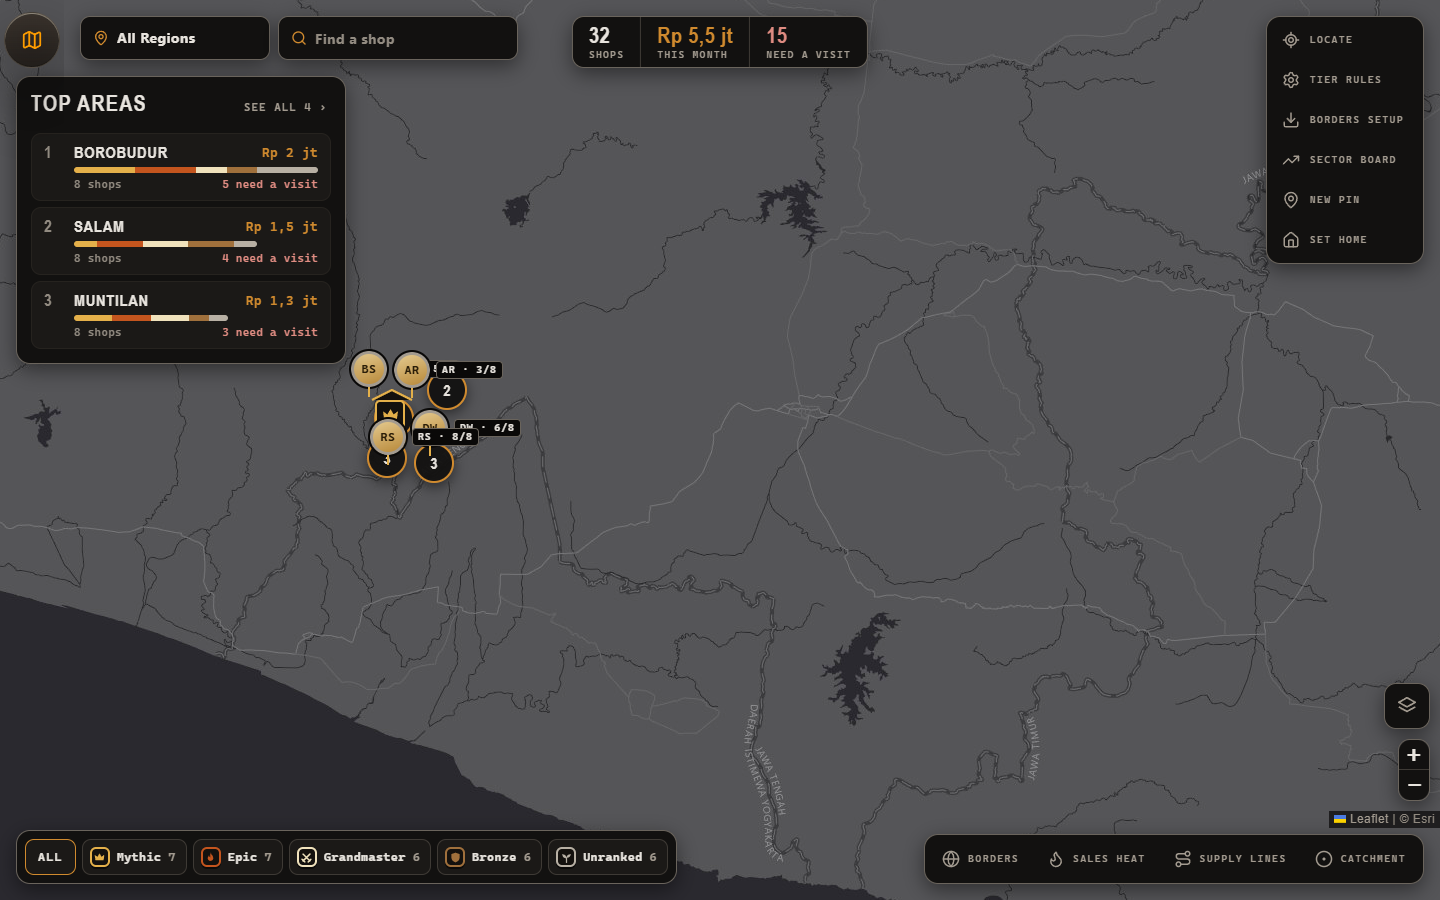
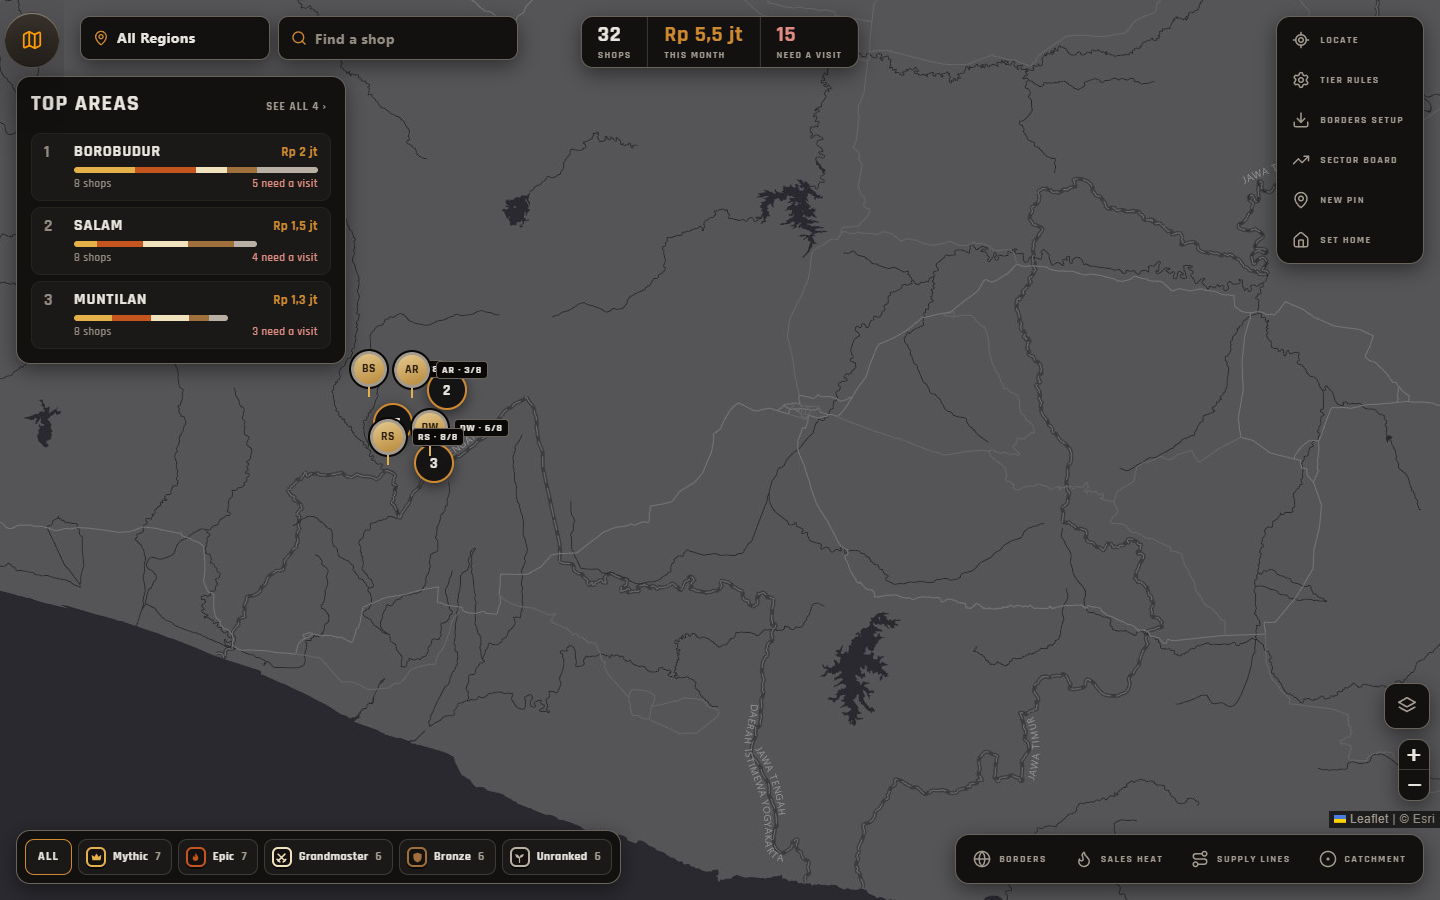
Map System round 3: font C + hub hidden built (kpm 7f88984); group symbol drawn, pick owed

diff --git a/Raw/2026-10-05-map-system/round2/map-system-round2.html b/Raw/2026-10-05-map-system/round2/map-system-round2.html
@@ -1,4 +1,5 @@
 <title>Map System Round 2</title>
+<link rel="stylesheet" href="https://fonts.googleapis.com/css2?family=Rajdhani:wght@500;600;700&display=swap">
 <link rel="preconnect" href="https://fonts.googleapis.com">
 <link rel="stylesheet" href="https://fonts.googleapis.com/css2?family=Barlow+Condensed:wght@600;700;800;900&display=swap">
 <style>
@@ -34,6 +35,7 @@ figcaption { font-size: 14px; color: var(--muted); }
 figcaption b:first-child { font-family: var(--display); font-size: 20px; letter-spacing: .04em; text-transform: uppercase; margin-right: 6px; }
 .tag { display: inline-block; font: 700 11px/1 var(--mono); letter-spacing: .1em; color: var(--gold2); border: 1px solid var(--gold); padding: 4px 6px 3px; border-radius: 4px; vertical-align: 3px; }
 img.frame { width: 100%; display: block; border-radius: 8px; border: 1px solid var(--line2); }
+#groups { grid-template-columns: repeat(auto-fit, minmax(min(100%, 240px), 1fr)); }
 #unranked { grid-template-columns: repeat(auto-fit, minmax(min(100%, 240px), 1fr)); }
 .bigfonts { display: grid; gap: 16px; }
 .bigrow { display: grid; grid-template-columns: 1.25fr 1fr; gap: 10px; align-items: start; }
@@ -61,6 +63,25 @@ img.frame { width: 100%; display: block; border-radius: 8px; border: 1px solid v
   background: #14110e; border: 1.5px solid var(--gold2); border-radius: 3px; padding: 2px 4px 1px 5px; white-space: nowrap; }
 .zoom3 { transform: scale(3); transform-origin: center; }
 
+/* ---- round 3: the group symbol ---- */
+.grp { position: relative; display: grid; justify-items: center; font-family: "Rajdhani", sans-serif; }
+.grp .n { margin-top: 3px; font: 700 13px/1 "Rajdhani", sans-serif; color: var(--cream); background: #14110e; border: 1.5px solid var(--line3); border-radius: 4px; padding: 2px 5px 1px; letter-spacing: .04em; white-space: nowrap; }
+/* A: a fanned stack of the best levels inside */
+.stack { position: relative; width: 40px; height: 30px; }
+.stack .mk { position: absolute; top: 3px; left: 8px; }
+.stack .mk.b1 { rotate: -14deg; translate: -8px 2px; opacity: .9; }
+.stack .mk.b2 { rotate: 14deg; translate: 8px 2px; opacity: .9; }
+.stack .mk.b0 { z-index: 2; }
+/* B: a little market town */
+.town { width: 42px; height: 30px; overflow: visible; }
+.town path { fill: #14110e; stroke: var(--c, #F0E2BC); stroke-width: 2; stroke-linejoin: round; }
+.town rect { fill: var(--c, #F0E2BC); }
+/* C: a supply crate, its edge = the best level inside */
+.crate { position: relative; width: 34px; height: 30px; display: grid; place-items: center; background: #1f1a14; border: 2px solid var(--c); border-radius: 4px; box-shadow: 0 2px 0 rgba(0,0,0,.55); overflow: hidden; }
+.crate::before, .crate::after { content: ""; position: absolute; left: 0; right: 0; height: 2px; background: color-mix(in srgb, var(--c) 45%, transparent); }
+.crate::before { top: 8px; } .crate::after { bottom: 8px; }
+.crate b { position: relative; z-index: 1; font: 700 15px/1 "Rajdhani", sans-serif; color: var(--cream); text-shadow: 0 1px 0 #000; }
+.today { width: 40px; height: 40px; border-radius: 50%; display: grid; place-items: center; background: rgba(18,17,16,.95); border: 2px solid #D08A2E; color: #E8E4DE; font: 800 15px/1 "Barlow Condensed", "Arial Narrow", sans-serif; box-shadow: 0 4px 14px rgba(0,0,0,.55); }
 /* ---- a map patch with pins ---- */
 /* real size: the patch is cropped to the column, never scaled, so a pin here is the pixel size it is on the map */
 .stage { position: relative; width: 100%; height: 280px; overflow: hidden; border-radius: 8px; border: 1px solid var(--line2); background: #4F4F51; }
@@ -119,9 +140,16 @@ ul.done { margin: 0; padding-left: 20px; display: grid; gap: 6px; color: var(--m
   <header style="display:grid;gap:12px">
     <span class="note">KPM · MAP SYSTEM · ROUND 2 · 2026-10-05</span>
     <h1>Map System Round 2</h1>
-    <p class="ask">🔴 One pick left: the font, now zoomed 3x below. Your hub pick (C) and Unranked pick (the sprout) are being built.</p>
+    <p class="ask">🔴 One pick: the new group symbol (section 0, right below). The font (C), the hub (C) and Unranked (the sprout) are built.</p>
     <p>Your words: <b>"the fonts is really bad i want u to change it, make sure all the animation is on theme with ours, and make sure that symbol for wholesale hub is more visible than other stores and i think i need new logo for unranked tier"</b>. The shop names and numbers are the test data, not your shops.</p>
   </header>
+
+  <section>
+    <h2>0 · The group symbol <small>new, your pick owed</small></h2>
+    <p>Your words: <b>"now i want u to change the circle and number to better symbol for the stores"</b>. When you zoom out, nearby shops join into one group. Today a group is a dark circle with a number. Each option below is a thing from the map's world, keeps the number (how many shops are inside), and is shown on a real map patch at its <b>real size</b> - groups of 3, 9, 29 and 152 shops - then one group 3x, then in grey.</p>
+    <div class="opts" id="groups"></div>
+    <p class="note">Done since the last version: your font C is now the app's font on every screen; the hub hides inside the groups when zoomed out; the hub is C and Unranked is the sprout (all built, local, not pushed).</p>
+  </section>
 
   <section>
     <h2>1 · The font <small>real frames of the app</small></h2>
@@ -169,7 +197,8 @@ ul.done { margin: 0; padding-left: 20px; display: grid; gap: 6px; color: var(--m
   <section class="decide">
     <h2>Your call</h2>
     <ol>
-      <li><b>🔴 Font: A, B or C?</b> I pick <b>B</b>: it is the font your approved drawings already use, so every screen starts looking like its drawing. It changes the big numbers and titles on every screen, not only the map. Example answer: "B".</li>
+      <li><b>🔴 Group symbol: A, B or C?</b> I pick <b>A, the badge stack</b>: on an analysis map the group should say what is inside, not only how many - the best levels show before you zoom in. Example answer: "A", or "C but show the level too".</li>
+      <li><b>✅ Font:</b> your C is built. <s>A, B or C?</s> I pick <b>B</b>: it is the font your approved drawings already use, so every screen starts looking like its drawing. It changes the big numbers and titles on every screen, not only the map. Example answer: "B".</li>
       <li><b>🔴 Wholesale hub: A, B or C?</b> I pick <b>C</b>: the warehouse roof is a thing you can name from a game, and the word HUB says it in plain text. You picked "the object and the word" for the visit signs too. Example: "C".</li>
       <li><b>🔴 Unranked: A, B or C?</b> I pick <b>B, the sprout</b>: at real map size it is the clearest of the three (the log can look like a camera, the ore like a blob), and it says "a new shop that can still grow". Example: "B", or "A but bigger".</li>
     </ol>
@@ -220,6 +249,25 @@ document.getElementById('unranked').innerHTML = [['Today', ['#6A645C', LV.none[1
   <div class="big"><div class="zoom3">${mk(look)}</div></div>
   <div class="row grey"><span class="lbl">In grey</span>${legend(look)}</div>
   <figcaption><b>${title}</b>${i === 2 ? '<span class="tag">MY PICK</span> ' : ''}${cap}</figcaption></figure>`).join('');
+
+/* round 3: the groups. Each group knows its shops' levels: the best ones lead the symbol */
+LV.none = ['#B8B0A4', '<path d="M8 15V8.5" fill="none" stroke="currentColor" stroke-width="1.8" stroke-linecap="round"/><path d="M8 9.2C8 5.6 5.6 3.4 2 3.4c0 3.6 2.4 5.8 6 5.8z"/><path d="M8 8.4c0-3.1 2.3-5.1 6-5.1 0 3.3-2.3 5.1-6 5.1z"/>'];
+const GROUPS = [[200, 120, 3, ['bronze', 'none', 'none']], [470, 110, 9, ['epic', 'gm', 'bronze']], [300, 240, 29, ['mythic', 'epic', 'gm']], [560, 250, 152, ['mythic', 'epic', 'bronze']]];
+const G = {
+  T: ['Today', (n) => `<span class="today">${n}</span>`, 'A dark circle with a number. It says how many, nothing about what is inside.'],
+  A: ['Badge stack', (n, lv) => `<span class="grp"><span class="stack">${mk(LV[lv[1]], { cls: 'b1' })}${mk(LV[lv[2]], { cls: 'b2' })}${mk(LV[lv[0]], { cls: 'b0' })}</span><b class="n">${n}</b></span>`,
+    'A fanned stack of the group\'s three best levels, the best one in front, and the count under it. You see at a glance where the Mythic shops are, before you zoom in.'],
+  B: ['Market town', (n, lv) => `<span class="grp" style="--c:${LV[lv[0]][0]}"><svg class="town" viewBox="0 0 42 30"><path d="M3 28V14l9-8 9 8v14z"/><path d="M21 28V11l9-8 9 8v17z"/><rect x="9" y="20" width="6" height="8" rx="1"/><rect x="27" y="18" width="6" height="10" rx="1"/></svg><b class="n">${n}</b></span>`,
+    'Two little shop houses - a market - with the count under them; the roof line takes the colour of the best level inside.'],
+  C: ['Supply crate', (n, lv) => `<span class="grp"><span class="crate" style="--c:${LV[lv[0]][0]}"><b>${n}</b></span></span>`,
+    'A wooden crate with the count stencilled on it; its edge is the colour of the best level inside. The simplest object, the number stays the biggest thing.'],
+};
+const gscene = (draw) => `<div class="stage"><div class="scr">${PINS.slice(0, 5).map(([x, y, t, st]) => `<span class="pin" style="left:${x + 40}px;top:${y}px">${mk(LV[t], { st: st || '' })}</span>`).join('')}${GROUPS.map(([x, y, n, lv]) => `<span class="pin" style="left:${x}px;top:${y}px">${draw(n, lv)}</span>`).join('')}</div></div>`;
+document.getElementById('groups').innerHTML = Object.entries(G).map(([k, [name, draw, cap]]) => `<figure class="${k === 'A' ? 'pick' : ''}">
+  ${gscene(draw)}
+  <div class="big"><div class="zoom3">${draw(29, ['mythic', 'epic', 'gm'])}</div></div>
+  <div class="row grey"><span class="lbl">In grey</span>${GROUPS.map(([, , n, lv]) => draw(n, lv)).join('')}</div>
+  <figcaption><b>${k === 'T' ? 'Today' : k + ' · ' + name}</b>${k === 'A' ? '<span class="tag">MY PICK</span> ' : ''}${cap}</figcaption></figure>`).join('');
 
 /* the keys, drawn with the app's own icons (lucide) and acts */
 const P = (d) => `<path d="${d}"/>`, C = (x, y, r) => `<circle cx="${x}" cy="${y}" r="${r}"/>`;

diff --git a/Brainstorm/2026-10-05_map-system-redesign.md b/Brainstorm/2026-10-05_map-system-redesign.md
@@ -1,6 +1,6 @@
 ---
 date: 2026-10-05
-status: BUILT 10:55 (57abe25); round 2 motion b93540f, hub C + sprout 00d787c; FONT pick OPEN (page v2 shows it 3x)
+status: BUILT 10:55 (57abe25) + round 2/3 (b93540f motion, 00d787c hub C + sprout, 7f88984 font C + hub hidden); GROUP SYMBOL pick OPEN
 page: https://claude.ai/artifact/WxW6xpYd3dhLhyEwZ6Gn8u
 source: Raw/2026-10-05-map-system/map-system-redesign.html (frames: pc-*.png, ph-*.png, states.json)
 ---
@@ -99,6 +99,29 @@ instead, so every pin is shown at its real pixel size).
 
 Models applied: Inversion (what makes a hub invisible: same size, same shape, a thin ring), Second-Order Thinking (a
 font fix ripples to every screen and to every width measured in the wrong font).
+
+## Round 3 (2026-10-05 12:00 - 12:10) - font C built, the hub hides again, the group symbol
+
+**His words:** *"C is best for fonts"* (against my B) · *"now i want u to change the circle and number to better symbol for
+the stores and make sure that the hub is hidden also when zoom out"* (screenshot: the hub sitting on top of a "2" bubble,
+real borders behind).
+
+**Built (kpm `7f88984`, local, not pushed):** Rajdhani for --font-display AND --font-mono, shipped with the app
+(@fontsource/rajdhani latin 500/600/700 in main.jsx + the lab; **/*.woff2 precached); the thermal nota keeps Courier. The hub is
+back inside the cluster bubbles when zoomed out (reverses my "never in a bubble" from 00d787c).
+**Cost found, not priced to him before:** Rajdhani has NO tabular digits ("1111" 26.7 px vs "8888" 43.4 px at 20 px), so
+number columns lose digit alignment app-wide. Flips to "keep the old digits in number tables" if a column reads ragged.
+Not measured: the other screens one by one in the new face (Map System and Journey were: 0 overflow, Journey 49/49).
+
+**The group symbol - OPEN, waiting on Aldi** (page v3, section 0): A badge stack (the group's three best levels fanned, count
+under - MY PICK, an analysis map should say what is inside) · B market town (two shop houses, roof = best level) · C supply
+crate (count stencilled, edge = best level). Building any of them needs each marker to carry its tier into the cluster
+(`cluster.getAllChildMarkers()` -> marker options).
+
+**Rejected on purpose:** a hub mark on a group that holds a hub (he asked for the hub hidden when zoomed out).
+
+Models applied: Second-Order Thinking (a font switch reaches every number table), Reversibility Test (the hub-in-bubble change
+is one line each way).
 
 ## Rejected on purpose
 

diff --git a/Wiki/Concepts/Aldi's Design Taste.md b/Wiki/Concepts/Aldi's Design Taste.md
@@ -3298,3 +3298,8 @@ the word), each at map size and zoomed, in a grey view, each acting out its word
   sprout"* - he took the object AND the word for the hub again (third time: signs, name tags, hub), and my sprout pick. **A
   font comparison must be shown ZOOMED** (one part at ~3x per option, stacked full width): side-by-side screens at app size
   read as the same picture to him, so the pick cost a round trip.
+
+- **12:00 - 12:10:** *"C is best for fonts"* - shown big, he took the squarer GAME face for numbers and labels over my "the
+  font your drawings used" (B): the game feel beats consistency with old drawings. Then *"make sure that the hub is hidden also
+  when zoom out"* - a special shop must stand out when you can see it, but must not break the clean zoomed-out picture; and
+  *"change the circle and number to better symbol"* - even a counter on his map must be an object, not a plain shape.

diff --git a/Wiki/Log.md b/Wiki/Log.md
@@ -1584,3 +1584,7 @@ https://claude.ai/artifact/J7Y5RdwwUhtRPas3KP8Fti · [[2026-10-05_map-system-red
 ## 2026-10-05 11:55 — Map System: his hub C + Unranked sprout BUILT (kpm 00d787c); font pick re-shown at 3x, OPEN
 
 [[2026-10-05_map-system-redesign]] (Round 2) · page v2 https://claude.ai/artifact/J7Y5RdwwUhtRPas3KP8Fti.
+
+## 2026-10-05 12:12 — Font C (Rajdhani) app-wide + hub hidden when zoomed out BUILT (kpm 7f88984); group symbol drawn, OPEN
+
+[[2026-10-05_map-system-redesign]] (Round 3) · page v3 https://claude.ai/artifact/J7Y5RdwwUhtRPas3KP8Fti.
